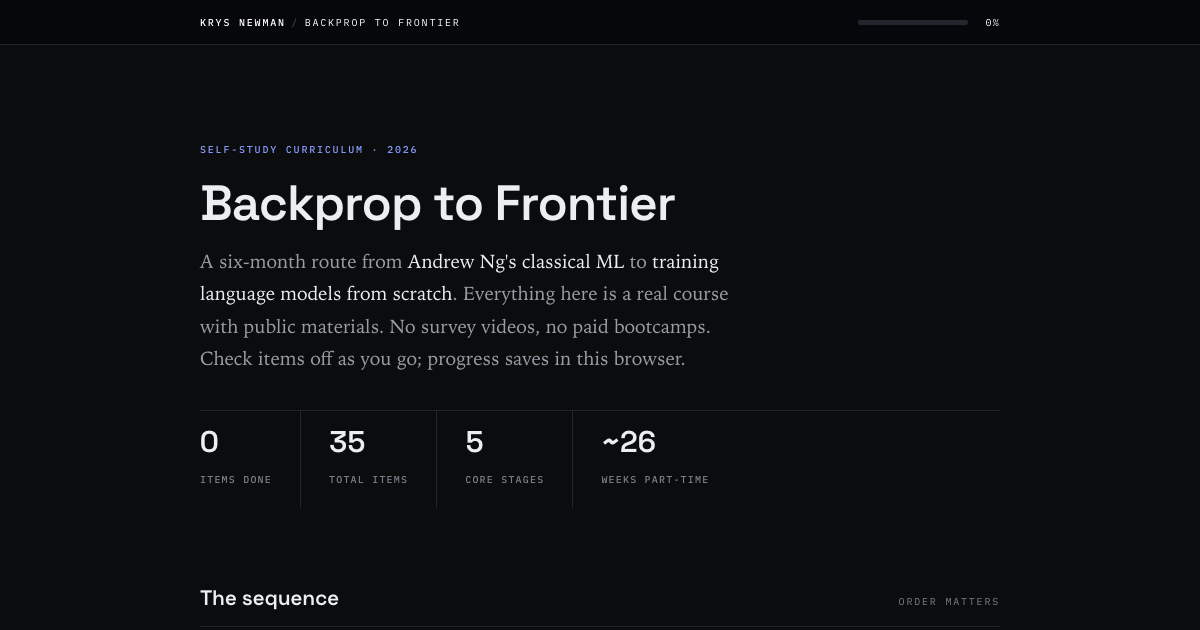
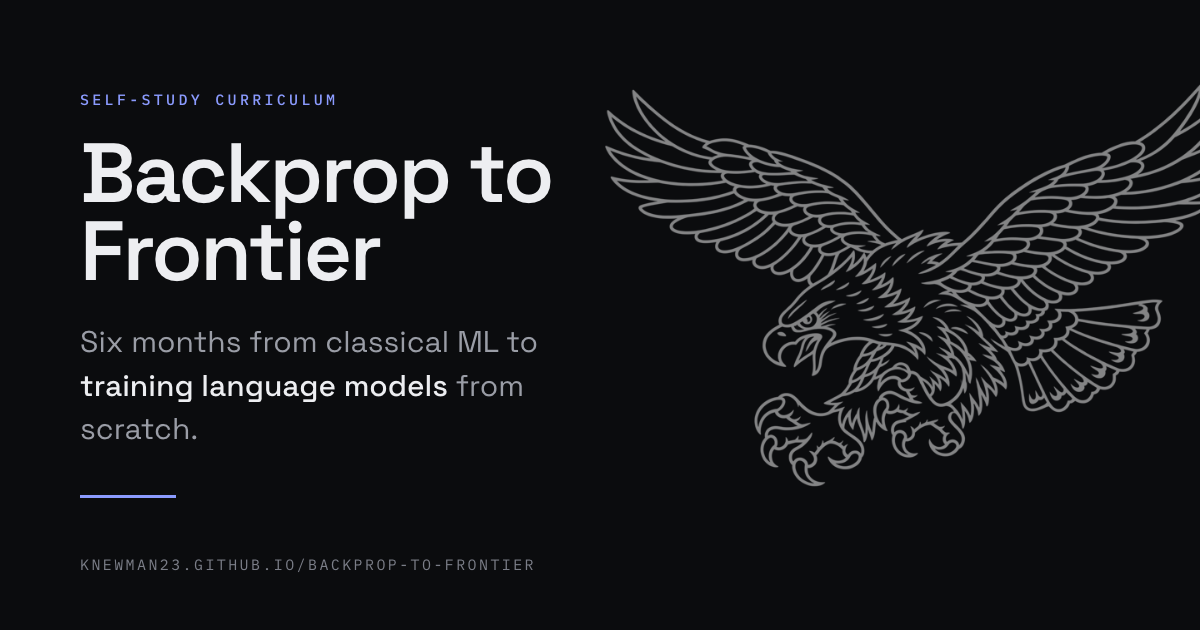
Use the shared eagle card for the link preview
The preview was a screenshot of the page header. It is now the same card
the other three sites use: crest, kicker, wordmark, tagline, accent rule,
URL, drawn from one template so the four cannot drift apart.

Only the preview image changes. Nothing the site renders is touched.

Regenerate by opening the card source at 1200x630 and capturing the
viewport.

Claude-Session: https://claude.ai/code/session_01MYnHWNSzMAFiRNwxXqYAmC

diff --git a/og/card.html b/og/card.html
@@ -1,0 +1,114 @@
+<!DOCTYPE html>
+<html lang="en">
+<head>
+<meta charset="utf-8">
+<title>Backprop to Frontier, link preview card</title>
+<!--
+  The source for og.png, not a page this site serves.
+
+  It exists because the obvious alternative, screenshotting the real page,
+  bakes whatever happened to be on screen that day into an image that then
+  never changes. This is drawn from the same tokens, the same two fonts and
+  the same crest as the rest of the family, so it stays on brand without
+  going stale.
+
+  To regenerate:  open at exactly 1200x630 and capture the viewport.
+-->
+<style>
+  @font-face {
+    font-family: "Space Grotesk";
+    src: url("../fonts/space-grotesk-var.woff2") format("woff2-variations");
+    font-weight: 300 700; font-style: normal;
+  }
+  @font-face { font-family:"IBM Plex Mono"; src:url("../fonts/plex-mono-400.woff2") format("woff2"); font-weight:400; }
+  @font-face { font-family:"IBM Plex Mono"; src:url("../fonts/plex-mono-500.woff2") format("woff2"); font-weight:500; }
+
+  /* The dark palette, lifted from the shared token set. The card is always
+     dark: a link preview has no viewer theme to follow. */
+  :root {
+    --bg:      #0b0c0e;
+    --ink:     #edeef1;
+    --soft:    #9a9da6;
+    --faint:   #7b7e88;
+    --accent:  #8b9bff;
+    --mono: "IBM Plex Mono", ui-monospace, SFMono-Regular, Menlo, monospace;
+    --sans: "Space Grotesk", system-ui, -apple-system, "Segoe UI", sans-serif;
+  }
+
+  * { box-sizing: border-box; }
+  html, body { margin: 0; padding: 0; }
+  body {
+    width: 1200px; height: 630px; overflow: hidden;
+    background: var(--bg); color: var(--ink);
+    font-family: var(--sans);
+    -webkit-font-smoothing: antialiased;
+  }
+
+  .card {
+    position: relative;
+    width: 1200px; height: 630px;
+    /* The foot is absolutely positioned, so the bottom padding is what
+       keeps the centred block from sliding underneath it. */
+    padding: 88px 80px 130px;
+    display: flex; flex-direction: column; justify-content: center;
+  }
+
+  /* The crest bleeds off the right edge so it reads as a watermark behind
+     the type rather than a second focal point. eagle.png is a black line
+     drawing on transparent, so it has to be inverted to survive on a
+     near-black ground. */
+  .crest {
+    position: absolute; right: -40px; top: 46%;
+    transform: translateY(-50%);
+    width: 640px; height: auto;
+    filter: invert(1);
+    opacity: .5;
+    pointer-events: none;
+  }
+
+  .kicker {
+    position: relative;
+    font-family: var(--mono); font-size: 15px; font-weight: 500;
+    letter-spacing: .22em; text-transform: uppercase;
+    color: var(--accent); margin: 0 0 26px;
+  }
+
+  h1 {
+    position: relative;
+    font-size: 84px; line-height: .92; font-weight: 600;
+    letter-spacing: -.03em; margin: 0 0 30px;
+    max-width: 640px;
+  }
+
+  .tagline {
+    position: relative;
+    font-size: 30px; line-height: 1.45; font-weight: 400;
+    color: var(--soft); margin: 0; max-width: 24ch;
+  }
+  .tagline b { color: var(--ink); font-weight: 500; }
+
+  .rule {
+    position: relative;
+    width: 96px; height: 3px; background: var(--accent);
+    margin: 44px 0 0;
+  }
+
+  .foot {
+    position: absolute; left: 80px; bottom: 56px;
+    font-family: var(--mono); font-size: 15px;
+    letter-spacing: .16em; text-transform: uppercase;
+    color: var(--faint); margin: 0;
+  }
+</style>
+</head>
+<body>
+  <div class="card">
+    <img class="crest" src="eagle.png" alt="">
+    <p class="kicker">Self-study curriculum</p>
+    <h1>Backprop to Frontier</h1>
+    <p class="tagline">Six months from classical ML to <b>training language models</b> from scratch.</p>
+    <div class="rule"></div>
+    <p class="foot">knewman23.github.io/backprop-to-frontier</p>
+  </div>
+</body>
+</html>
